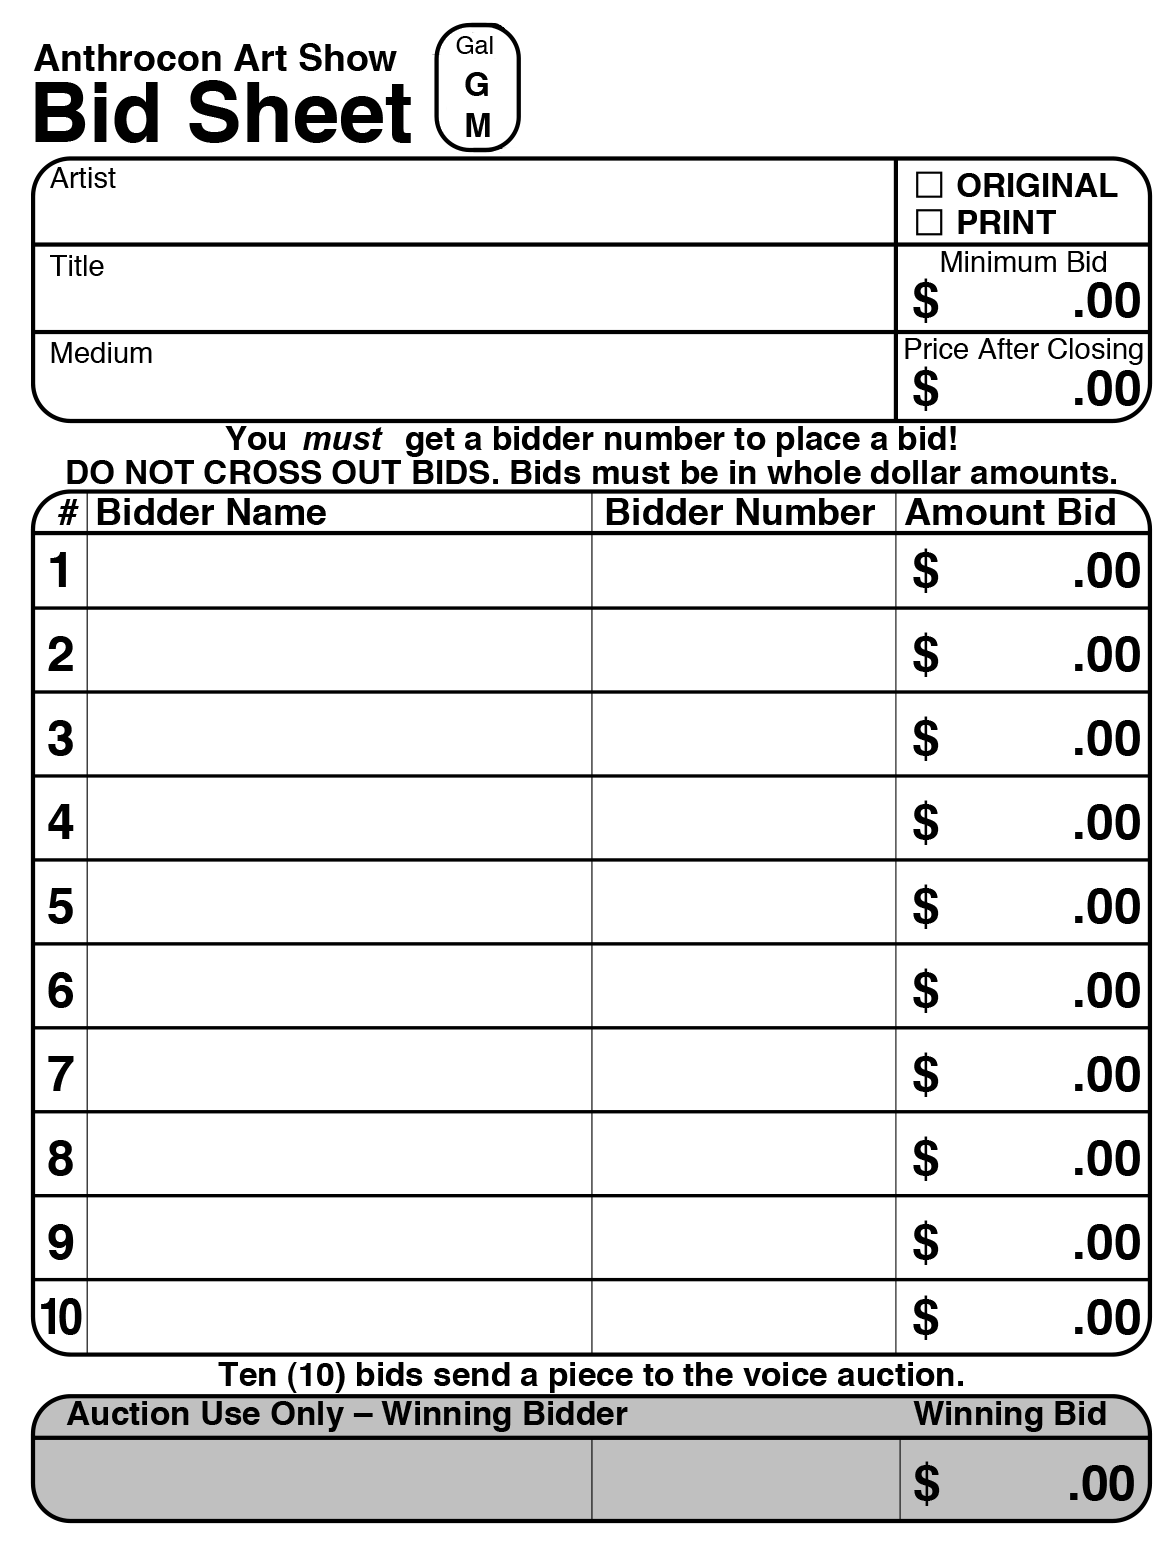
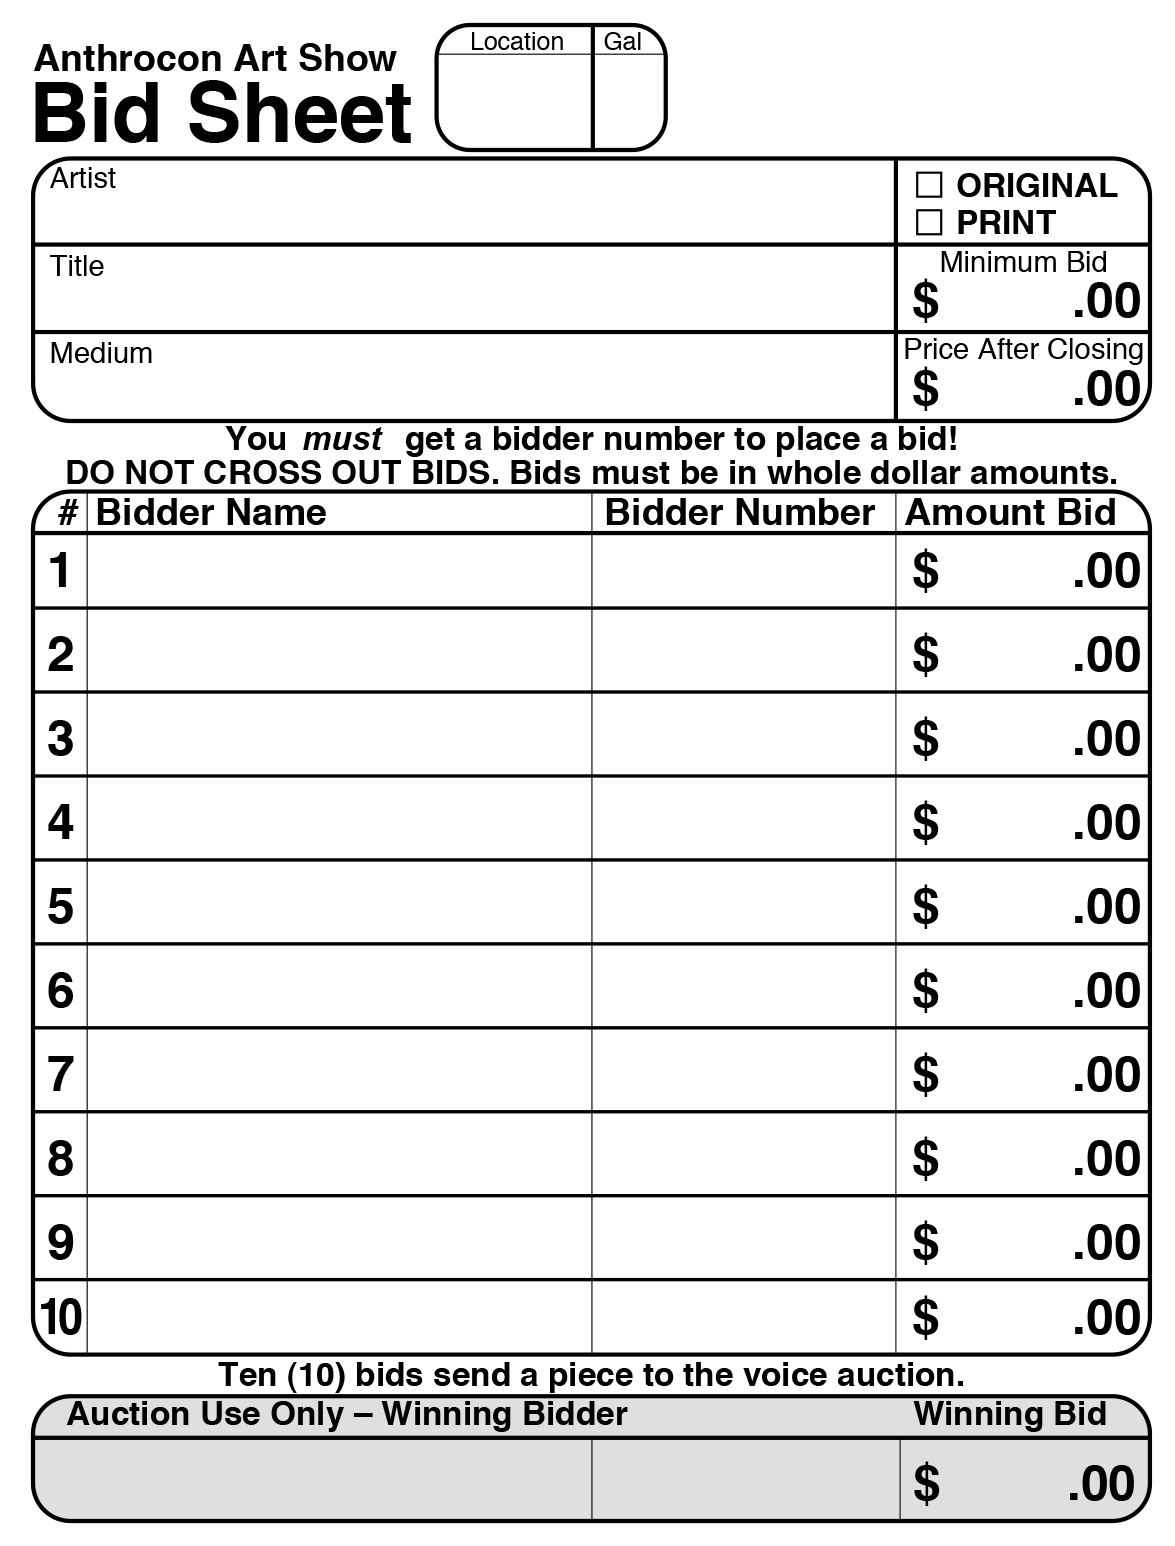
Bidsheet - print M or G, adjust text alignment

Changed region(s): [[0.0306, 0.9004, 0.9804, 0.9935], [0.3983, 0.0, 0.5515, 0.1242], [0.5515, 0.031, 0.5821, 0.0931]]

diff --git a/anthrocon/models.py b/anthrocon/models.py
@@ -83,17 +83,17 @@ class ArtShowPiece:
 
         # Gallery, Piece ID and Barcode
         pdf.image(get_static_file_path('bidsheet.png'), x=0 + xplus, y=-2 + yplus, w=305)
-        pdf.set_font(normal_font_name, size=17)
+        pdf.set_font(normal_font_name, size=15)
+        pdf.set_xy(154 + xplus, 15 + yplus)
         if self.gallery == c.GENERAL:
-            pdf.set_xy(115 + xplus, 9 + yplus)
+            pdf.cell(132, 22, txt="G", ln=1, align="L")
         else:
-            pdf.set_xy(115 + xplus, 20 + yplus)
-        pdf.cell(132, 22, txt="O", ln=1, align="L")
+            pdf.cell(132, 22, txt="M", ln=1, align="L")
         pdf.set_font("3of9", size=25)
         pdf.set_xy(178 + xplus, 8 + yplus)
         pdf.cell(132, 22, txt=self.barcode_data, ln=1, align="C")
         pdf.set_font(bold_font_name, size=8)
-        pdf.set_xy(178 + xplus, 26 + yplus)
+        pdf.set_xy(178 + xplus, 27 + yplus)
         pdf.cell(132, 12, txt=self.artist_and_piece_id, ln=1, align="C")
 
         # Artist, Title, Media
@@ -103,11 +103,11 @@ class ArtShowPiece:
         pdf.cell(230, 24,
                     txt=(self.app_display_name),
                     ln=1, align="C")
-        pdf.set_xy(10 + xplus, 64 + yplus)
+        pdf.set_xy(10 + xplus, 65 + yplus)
         set_fitted_font_size(self.name, max_size=260)
         pdf.cell(230, 24, txt=self.name, ln=1, align="C")
         pdf.set_font(normal_font_name, size=12)
-        pdf.set_xy(10 + xplus, 86 + yplus)
+        pdf.set_xy(10 + xplus, 87 + yplus)
         pdf.cell(
             230, 24,
             txt=f'Print ({self.print_run_num} of {self.print_run_total})' if self.type == c.PRINT else self.media,
